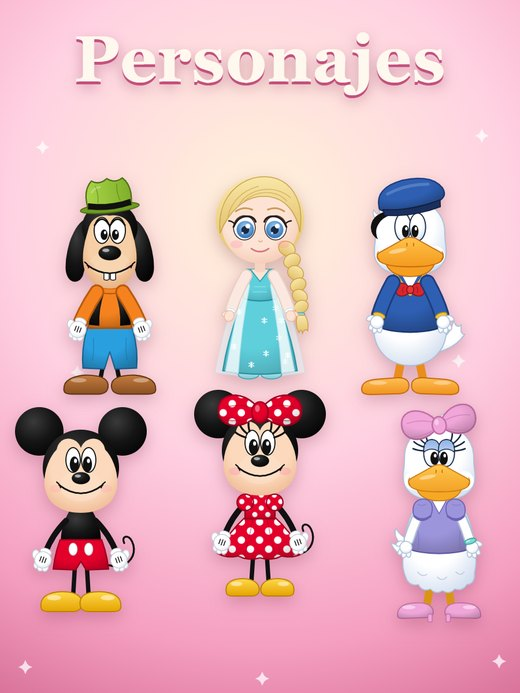
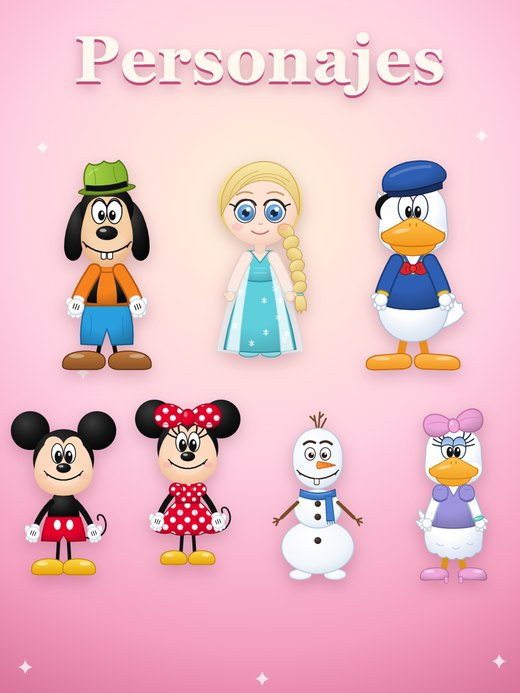
Sumar a Olaf a los personajes
Tres bolas de nieve, ramitas en la cabeza (al tocarlas giran), nariz de
zanahoria elastica, sonrisa grande con un dienton, botones de carbon,
brazos de ramita y la bufanda azul. Voz del navegador alegre, y la tapa
de Personajes ahora muestra a los siete.

Changed region(s): [[0.0308, 0.2121, 0.7077, 0.9091], [0.6769, 0.2121, 0.9538, 0.9091], [0.0, 0.6061, 0.0308, 0.6364]]

diff --git a/personajes/characters/olaf.js b/personajes/characters/olaf.js
@@ -1,0 +1,166 @@
+// Olaf (de Frozen): tres bolas de nieve, ramitas en la cabeza y nariz de zanahoria
+CHARACTER({
+  id: "olaf", name: "Olaf", emoji: "⛄", female: false,
+  // Sin voz de ElevenLabs fija: usa la de la cuenta que tenga "Olaf" en el nombre, o la del navegador
+  voiceId: "",
+  // Voz del navegador: alegre y un poco aguda
+  browser: { pitch: 1.35, rate: 1.05 },
+  // Cómo canta: canción, ritmo, timbre, vocal con que tararea, altura y vibrato [velocidad, cuánto]
+  sing: { song: "baile", beat: .34, wave: "sine", vowel: "o", pitch: .9, vib: [5, .02] },
+  looks: [],
+  // Color de la bufanda
+  colors: { m: "#3f7fd0", md: "#2a5a9e" },
+  // Colores y recorte de la cara para el avatar del selector
+  thumbCss: ".mfill{fill:#3f7fd0}.mstroke{stroke:#2a5a9e}",
+  thumbBox: "80 20 240 240",
+  // Hombros y manos en reposo: brazos de ramita, abiertos hacia abajo
+  shoulders: [[142, 300], [258, 300]],
+  hands: [[90, 352], [310, 352]],
+  raiseScale: 1.15, kissAngle: 160, kissScale: 0.8, peekaboo: [150, 1.3], waveAngle: 115,
+  // Altura del almohadón al sentarse
+  seatY: 528,
+  // Dónde van las prendas del armario (wardrobe.js): cinta del gorro, centro de los lentes,
+  // cuello y cintura de la camisa, cintura y ruedo del pantalón, y [x, y, ancho] de cada zapato
+  fit: {
+    hat: { y: 96, w: 150 }, glasses: { cy: 160, s: 0.5 },
+    top: { neck: 268, waist: 372, w: 136 }, sleeve: 0.9,
+    bottom: { waist: 372, hem: 478, w: 196 },
+    shoes: [[152, 508, 82], [248, 508, 82]]
+  },
+  // Sonrisa enorme debajo de la zanahoria; el diente queda colgando del labio de arriba
+  mouth: {
+    path: o => `M146 214 Q200 250 254 214 Q200 ${(250 + o * 40).toFixed(1)} 146 214 Z`,
+    tongue: o => 240 + o * 14
+  },
+  // Partes elásticas: centro (cx, cy), radio, punto de unión (base) y cuánto se estiran (max)
+  parts: {
+    nose:  { kind: "nose", cx: 226, cy: 192, r: 16, base: [204, 192], max: 120, blob: "nose", neck: "noseNeck", w0: 9 },
+    footL: { kind: "foot", cx: 152, cy: 508, hip: [170, 480], ankle: [158, 500], max: 100, blob: "footL", line: "legLline" },
+    footR: { kind: "foot", cx: 248, cy: 508, hip: [230, 480], ankle: [242, 500], max: 100, blob: "footR", line: "legRline" }
+  },
+  // Lo que dice al jugar con cada parte
+  reactions: {
+    nose:  ["¡Mi nariz de zanahoria!", "¡Jaja, cuidado con mi zanahoria!", "¡Ay, que se me sale la nariz!"],
+    foot:  ["¡Mis piecitos de nieve!", "¡Jiji, cosquillas!", "¡A bailar en la nieve!"],
+    pet:   ["¡Me encantan los abrazos calentitos, {nombre}!", "¡Gracias, amiga!", "¡Qué lindo mimo!"],
+    tummy: ["¡Jajaja! ¡Cosquillas en la panza de nieve!", "¡Jiji, me hacés reír!", "¡Jaja, basta, basta!"],
+    bow:   ["¡Mi pelito de ramitas!", "¡Uy, cuidado con mis ramitas!"],
+    hand:  ["¡Choca esos cinco, {nombre}!", "¡Bien ahí, campeona!"],
+    head:  ["¡Hola, {nombre}! ¡Soy Olaf, y me encantan los abrazos calentitos!", "¡Qué lindo día!", "¿Jugamos en la nieve, {nombre}?", "¡Jiji, qué divertido!", "¡Hola, amiga!"]
+  },
+  svg: `
+    <defs>
+      <radialGradient id="nieve" cx="40%" cy="32%" r="75%">
+        <stop offset="0%" stop-color="#ffffff"/>
+        <stop offset="70%" stop-color="#f2f6fb"/>
+        <stop offset="100%" stop-color="#d5e1ee"/>
+      </radialGradient>
+      <linearGradient id="zanahoria" x1="0" y1="0" x2="1" y2="0">
+        <stop offset="0%" stop-color="#ff9a3c"/>
+        <stop offset="100%" stop-color="#f06c12"/>
+      </linearGradient>
+      <radialGradient id="carbon" cx="38%" cy="32%" r="70%">
+        <stop offset="0%" stop-color="#5a4a42"/>
+        <stop offset="100%" stop-color="#231b17"/>
+      </radialGradient>
+      <radialGradient id="clothShade" cx="42%" cy="28%" r="80%">
+        <stop offset="50%" stop-color="#000" stop-opacity="0"/>
+        <stop offset="100%" stop-color="#000" stop-opacity=".22"/>
+      </radialGradient>
+      <clipPath id="mouthClip"><path id="mouthClipPath" d="M146 214 Q200 250 254 214 Q200 250 146 214 Z"/></clipPath>
+    </defs>
+
+    <g id="all"><g id="sway">
+      <!-- piecitos de nieve -->
+      <g id="legL">
+        <path id="legLline" d="M170 480 L158 500" stroke="#e4ecf5" stroke-width="22" stroke-linecap="round"/>
+        <g id="footL" data-part="footL" class="grab">
+          <g class="orig-shoes"><ellipse cx="150" cy="508" rx="32" ry="15" fill="url(#nieve)" stroke="#b9c8d8" stroke-width="2.5"/></g>
+        </g>
+      </g>
+      <g id="legR">
+        <path id="legRline" d="M230 480 L242 500" stroke="#e4ecf5" stroke-width="22" stroke-linecap="round"/>
+        <g id="footR" data-part="footR" class="grab">
+          <g class="orig-shoes"><ellipse cx="250" cy="508" rx="32" ry="15" fill="url(#nieve)" stroke="#b9c8d8" stroke-width="2.5"/></g>
+        </g>
+      </g>
+
+      <!-- bola grande de abajo y bola del medio, con botones de carbón -->
+      <g data-part="tummy" class="orig-bottom">
+        <ellipse cx="200" cy="428" rx="104" ry="78" fill="url(#nieve)" stroke="#b9c8d8" stroke-width="3"/>
+        <circle cx="200" cy="410" r="10" fill="url(#carbon)"/>
+      </g>
+      <g data-part="tummy" class="orig-top">
+        <ellipse cx="200" cy="318" rx="68" ry="56" fill="url(#nieve)" stroke="#b9c8d8" stroke-width="3"/>
+        <circle cx="200" cy="304" r="9" fill="url(#carbon)"/>
+        <circle cx="200" cy="342" r="9.5" fill="url(#carbon)"/>
+        <!-- bufanda azul con la punta colgando -->
+        <path d="M150 262 Q200 284 250 262 L252 282 Q200 304 148 282 Z" class="mfill mstroke" stroke-width="2.5" stroke-linejoin="round"/>
+        <path d="M150 262 Q200 284 250 262 L252 282 Q200 304 148 282 Z" fill="url(#clothShade)"/>
+        <path d="M222 282 L240 282 L248 352 L226 354 Z" class="mfill mstroke" stroke-width="2.5" stroke-linejoin="round"/>
+        <path d="M226 354 L248 352 M229 354 l-1 9 M235 353 l0 9 M241 353 l1 9 M247 352 l2 9" class="mstroke" stroke-width="2" stroke-linecap="round" fill="none"/>
+        <path d="M160 270 Q200 286 240 270" stroke="#fff" stroke-width="2" fill="none" opacity=".35"/>
+      </g>
+
+      <g id="head" data-part="head">
+        <!-- ramitas en la cabeza (al tocarlas, giran) -->
+        <g id="bow" data-part="bow" class="orig-hat">
+          <path d="M198 92 L190 50 M190 64 L178 52 M202 90 L206 40 M206 56 L216 46 M206 92 L224 58" stroke="#7a4b2a" stroke-width="5" fill="none" stroke-linecap="round"/>
+        </g>
+        <!-- cabeza alargada, más ancha abajo -->
+        <path d="M200 86 C246 86 270 124 272 166 C274 210 262 252 200 262 C138 252 126 210 128 166 C130 124 154 86 200 86 Z" fill="url(#nieve)" stroke="#b9c8d8" stroke-width="3"/>
+
+        <!-- cejas gruesas -->
+        <path d="M160 132 Q176 118 192 128" stroke="#3a2a22" stroke-width="7" fill="none" stroke-linecap="round"/>
+        <path d="M208 128 Q224 118 240 132" stroke="#3a2a22" stroke-width="7" fill="none" stroke-linecap="round"/>
+        <!-- ojos -->
+        <g id="eyes">
+          <ellipse cx="178" cy="160" rx="15" ry="18" fill="#fff" stroke="#3a2a22" stroke-width="2.5"/>
+          <ellipse cx="222" cy="160" rx="15" ry="18" fill="#fff" stroke="#3a2a22" stroke-width="2.5"/>
+          <g id="pupils">
+            <circle cx="181" cy="164" r="8" fill="#2a1d18"/>
+            <circle cx="219" cy="164" r="8" fill="#2a1d18"/>
+            <circle cx="183.5" cy="160" r="2.6" fill="#fff"/>
+            <circle cx="221.5" cy="160" r="2.6" fill="#fff"/>
+          </g>
+        </g>
+        <g id="happyEyes" stroke="#2a1d18" stroke-width="5.5" stroke-linecap="round" fill="none">
+          <path d="M163 166 Q178 148 193 166"/>
+          <path d="M207 166 Q222 148 237 166"/>
+        </g>
+
+        <!-- boca enorme con un dientón -->
+        <path id="mouthOpen" d="M146 214 Q200 250 254 214 Q200 250 146 214 Z" fill="#3a1a1a" stroke="#2a1d18" stroke-width="3" stroke-linejoin="round"/>
+        <ellipse id="tongue" cx="200" cy="240" rx="24" ry="10" fill="#e8798a" clip-path="url(#mouthClip)"/>
+        <path d="M146 214 Q200 250 254 214" stroke="#2a1d18" stroke-width="3.5" fill="none" stroke-linecap="round"/>
+        <path d="M140 207 Q148 212 149 220 M260 207 Q252 212 251 220" stroke="#2a1d18" stroke-width="3" fill="none" stroke-linecap="round"/>
+        <path d="M190 231 L190 247 Q197 252 204 247 L204 232.5 Z" fill="#fff" stroke="#2a1d18" stroke-width="2" stroke-linejoin="round"/>
+
+        <!-- nariz de zanahoria, elástica -->
+        <g data-part="nose" class="grab">
+          <path id="noseNeck" fill="none" stroke="#f58a2c" stroke-linecap="round"/>
+          <g id="nose">
+            <path d="M200 182 Q232 186 252 193 Q232 199 200 203 Q194 192 200 182 Z" fill="url(#zanahoria)" stroke="#c4560d" stroke-width="2" stroke-linejoin="round"/>
+            <path d="M214 187 l3 4 M226 189 l2 4 M238 191 l2 3" stroke="#c4560d" stroke-width="1.5" stroke-linecap="round"/>
+          </g>
+        </g>
+      </g>
+
+      <!-- brazos de ramita, con tres deditos -->
+      <g id="armL" data-part="handL">
+        <g class="armline"><path d="M142 300 Q116 324 96 344" stroke="#7a4b2a" stroke-width="6" fill="none" stroke-linecap="round" vector-effect="non-scaling-stroke"/></g>
+        <g class="reach"><g transform="translate(90 352)">
+          <path d="M6 -8 L-8 4 M-2 -2 L-16 -6 M-2 -2 L-10 14 M-2 -2 L-18 6" stroke="#7a4b2a" stroke-width="5" fill="none" stroke-linecap="round"/>
+          <circle cx="-4" cy="0" r="16" fill="transparent"/>
+        </g></g>
+      </g>
+      <g id="armR" data-part="handR">
+        <g class="armline"><path d="M258 300 Q284 324 304 344" stroke="#7a4b2a" stroke-width="6" fill="none" stroke-linecap="round" vector-effect="non-scaling-stroke"/></g>
+        <g class="reach"><g transform="translate(310 352)">
+          <path d="M-6 -8 L8 4 M2 -2 L16 -6 M2 -2 L10 14 M2 -2 L18 6" stroke="#7a4b2a" stroke-width="5" fill="none" stroke-linecap="round"/>
+          <circle cx="4" cy="0" r="16" fill="transparent"/>
+        </g></g>
+      </g>
+    </g></g>
+`
+});

diff --git a/index.html b/index.html
@@ -76,7 +76,7 @@
     <a class="abrir" href="personajes/index.html">
       <img class="tapa" src="portadas/personajes.jpg" alt="Tapa de Personajes">
       <p class="titulo">Personajes</p>
-      <p class="meta">Jugar con Minnie, Mickey, Daisy, Donald, Goofy y Elsa</p>
+      <p class="meta">Jugar con Minnie, Mickey, Daisy, Donald, Goofy, Elsa y Olaf</p>
     </a>
   </div>
   <div class="libro">

diff --git a/personajes/index.html b/personajes/index.html
@@ -314,6 +314,7 @@ function WARDROBE(w){ WARDROBE_ITEMS = w; }
 <script src="characters/donald.js"></script>
 <script src="characters/goofy.js"></script>
 <script src="characters/elsa.js"></script>
+<script src="characters/olaf.js"></script>
 <script src="frases.js"></script>
 <script>
 const $ = s => document.querySelector(s);
